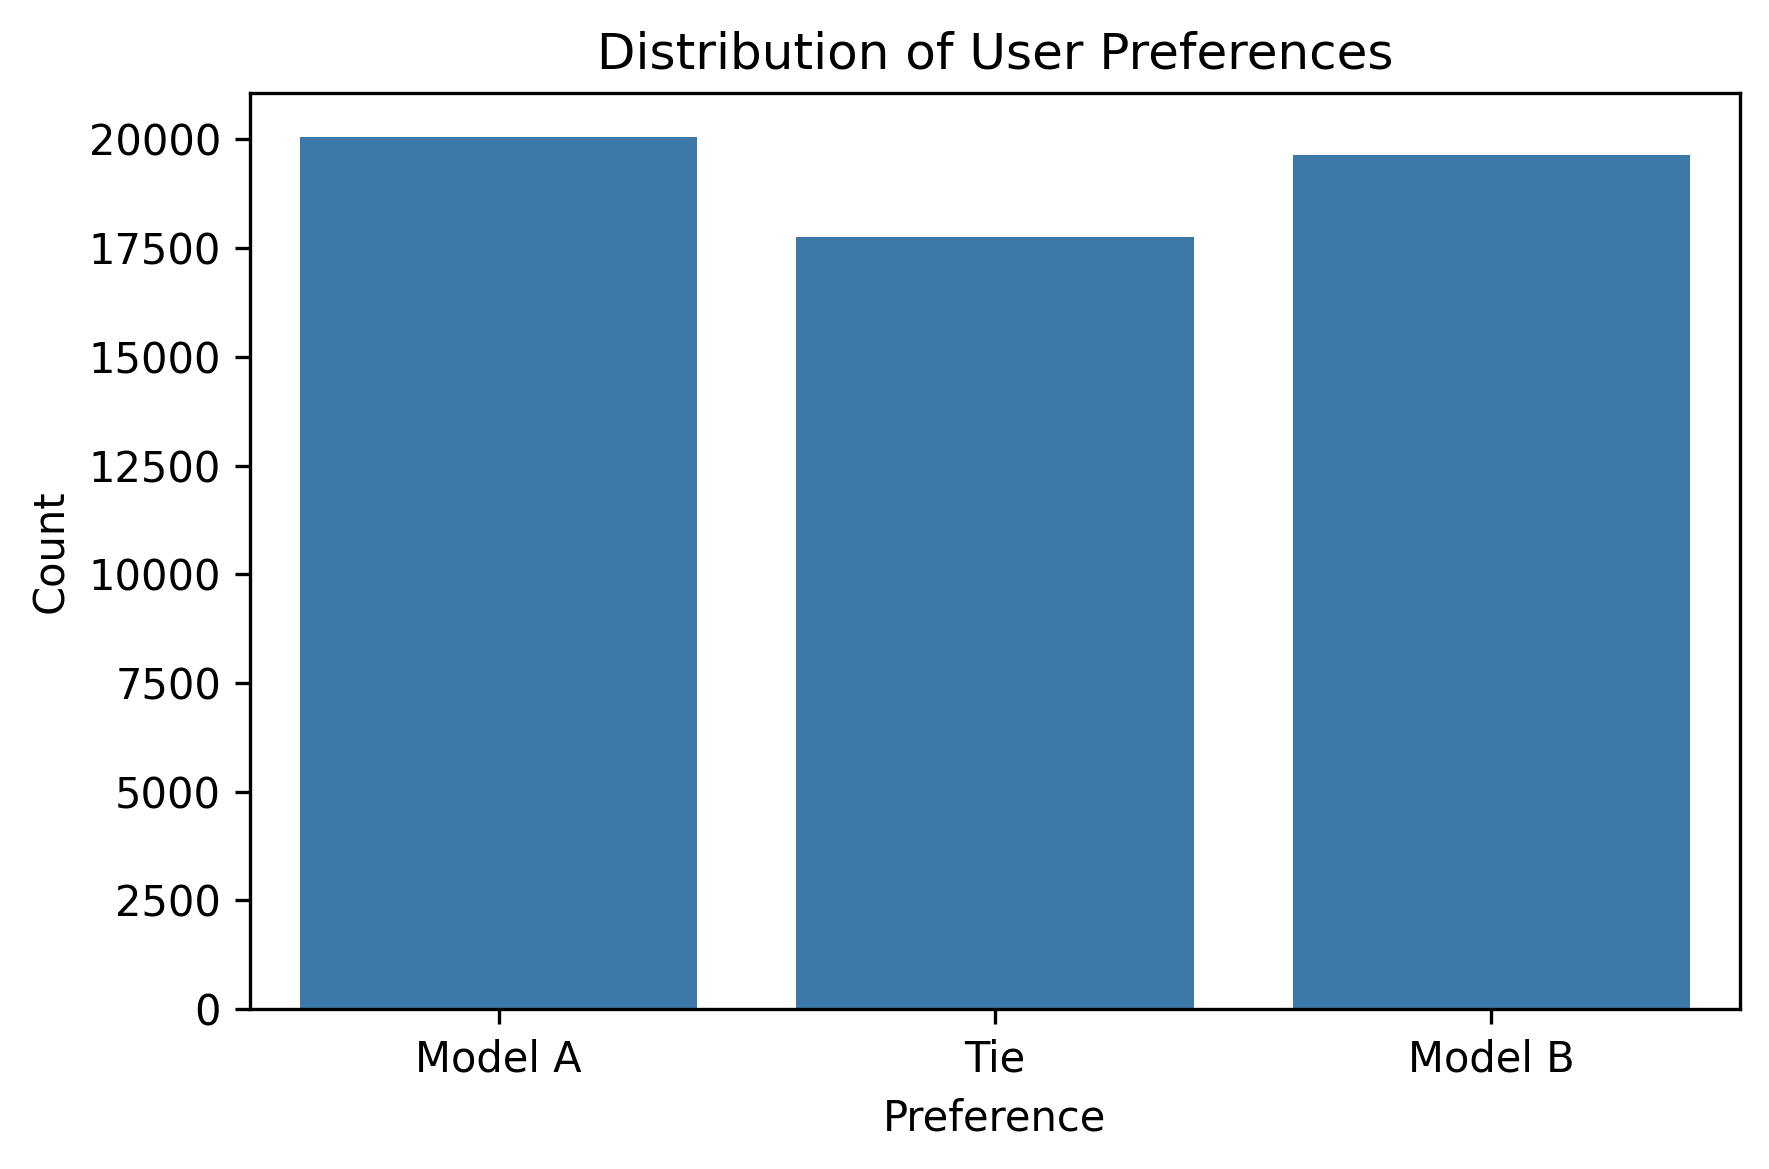
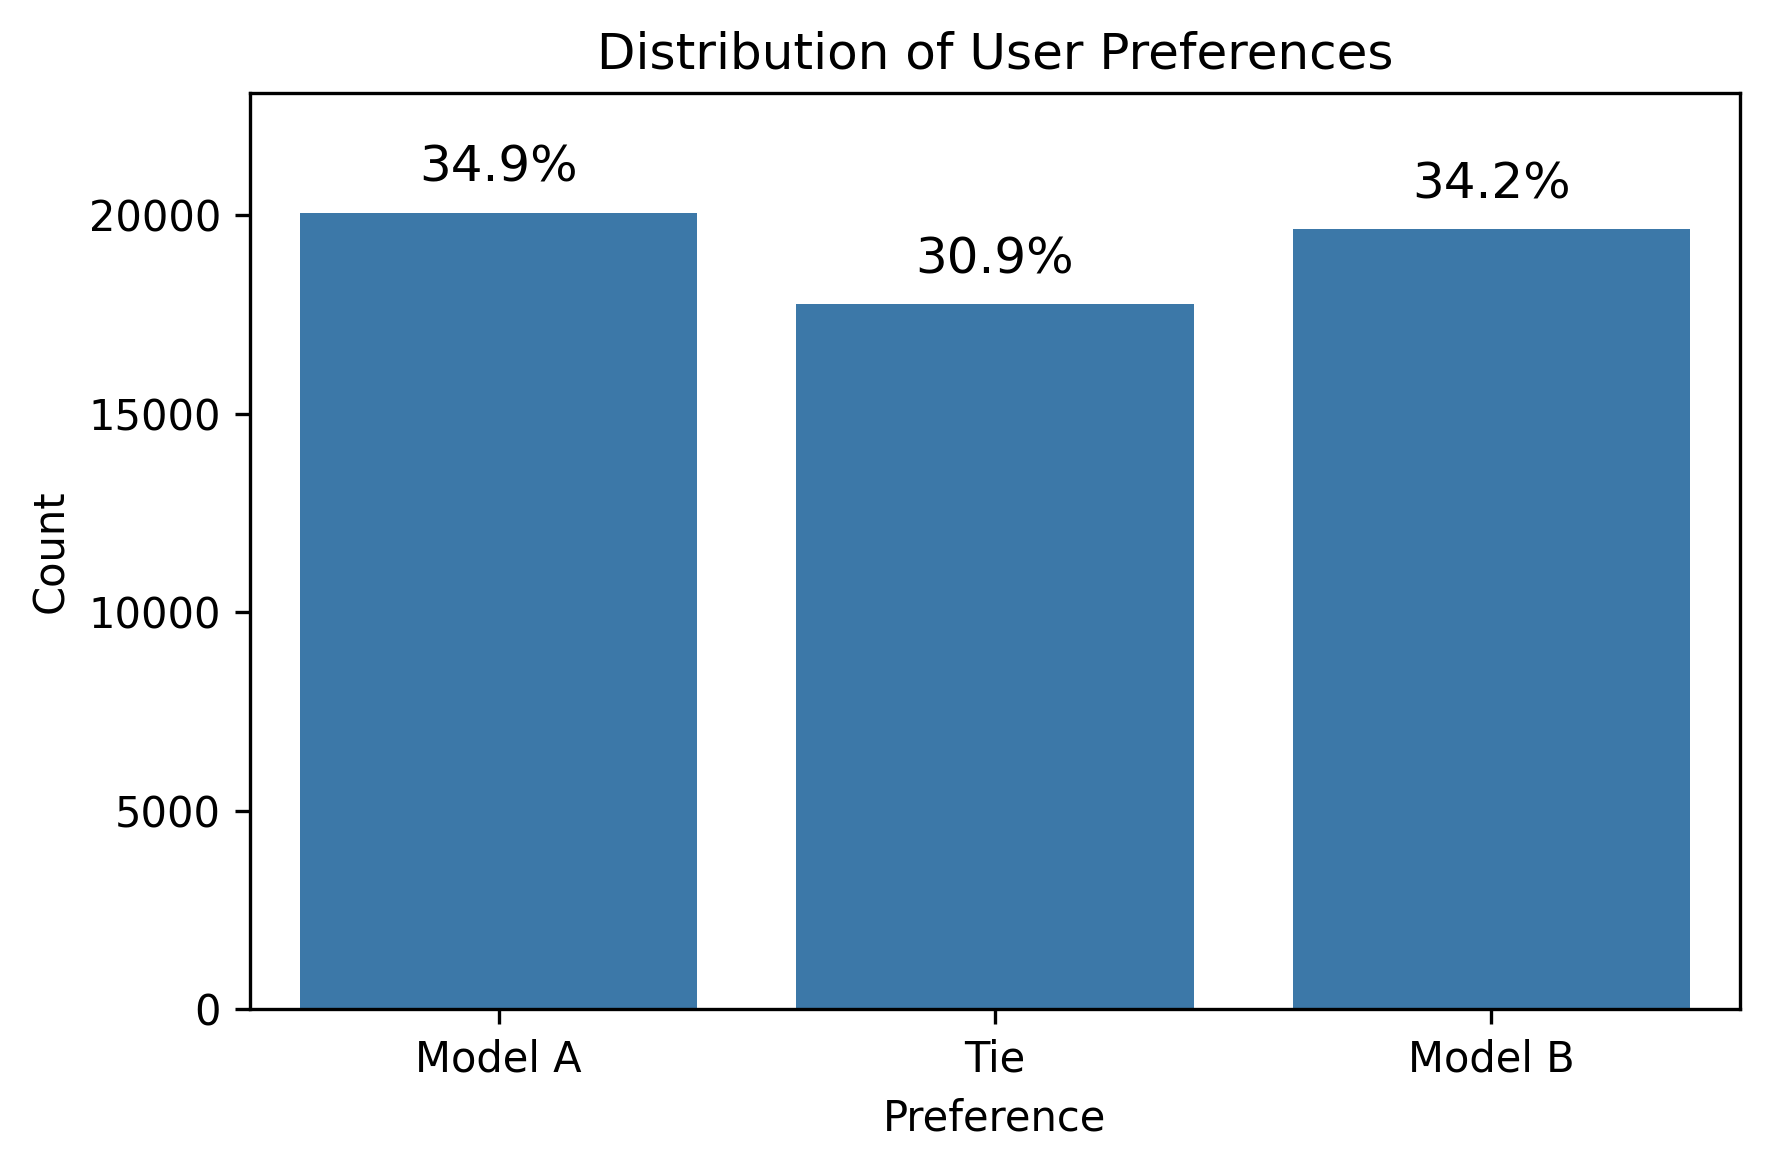
improved bias distribution plot

diff --git a/main.py b/main.py
@@ -12,8 +12,6 @@ from sklearn.model_selection import train_test_split
 from sklearn.preprocessing import StandardScaler
 
 ## TODO:
-# plot to check for bias in dataset (preference for model a or b)
-# unbias dataset
 # try different models
 # feature importance plot
 # update ipython notebook for kaggle
@@ -44,11 +42,28 @@ def create_target_column(df):
 def plot_bias_in_dataset(train_df, filename='bias_distribution.png'):
     plt.figure(figsize=(6, 4))
     blue_shade = sns.color_palette("Blues")[4]
-    sns.countplot(x='target', data=train_df, color=blue_shade, order=[0, 2, 1])
+    ax = sns.countplot(x='target', data=train_df, color=blue_shade, order=[0, 2, 1])
     plt.title("Distribution of User Preferences")
     plt.xlabel("Preference")
     plt.ylabel("Count")
     plt.xticks([0, 1, 2], ['Model A', 'Tie', 'Model B'])
+
+    # Calculate total number of rows to compute percentages
+    total = len(train_df)
+
+    # Adjust the y-limit to give more space for the percentages above the bars
+    max_height = max([p.get_height() for p in ax.patches])  # Get the max height of the bars
+    ax.set_ylim(0, max_height * 1.15)  # Increase the y-limit by 15% to avoid overlap
+
+    # Annotate percentages on the bars
+    for p in ax.patches:
+        height = p.get_height()
+        percentage = f'{100 * height / total:.1f}%'
+        ax.annotate(percentage,
+                    (p.get_x() + p.get_width() / 2., height),
+                    ha='center', va='bottom', fontsize=12, color='black', xytext=(0, 5),
+                    textcoords='offset points')  # Move the text 5 points above the bar
+
     plt.tight_layout()
     plt.savefig(filename, dpi=300, bbox_inches='tight')
     plt.clf()
